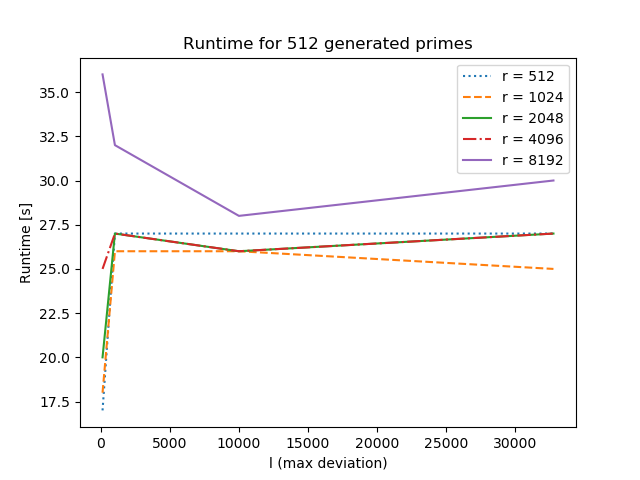
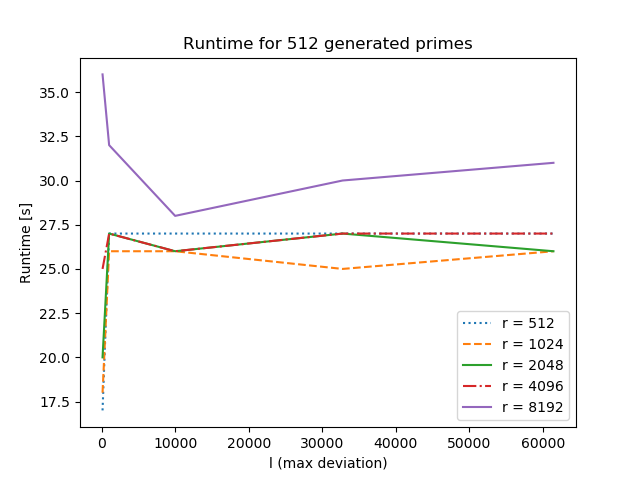
updated error

diff --git a/generate_benchmark_plot.py b/generate_benchmark_plot.py
@@ -15,7 +15,7 @@ plt.ylabel('Runtime [s]')
 plt.title('Runtime for 512 generated primes');
 
 for i in range(0,5):
-	plt.plot(l[i*5:((i*5)+4)],time[i*5:((i*5)+4)], linestyle[i])
+	plt.plot(l[i*5:((i*5)+5)],time[i*5:((i*5)+5)], linestyle[i])
 
 plt.legend( [ 'r = 512'
             , 'r = 1024'  
